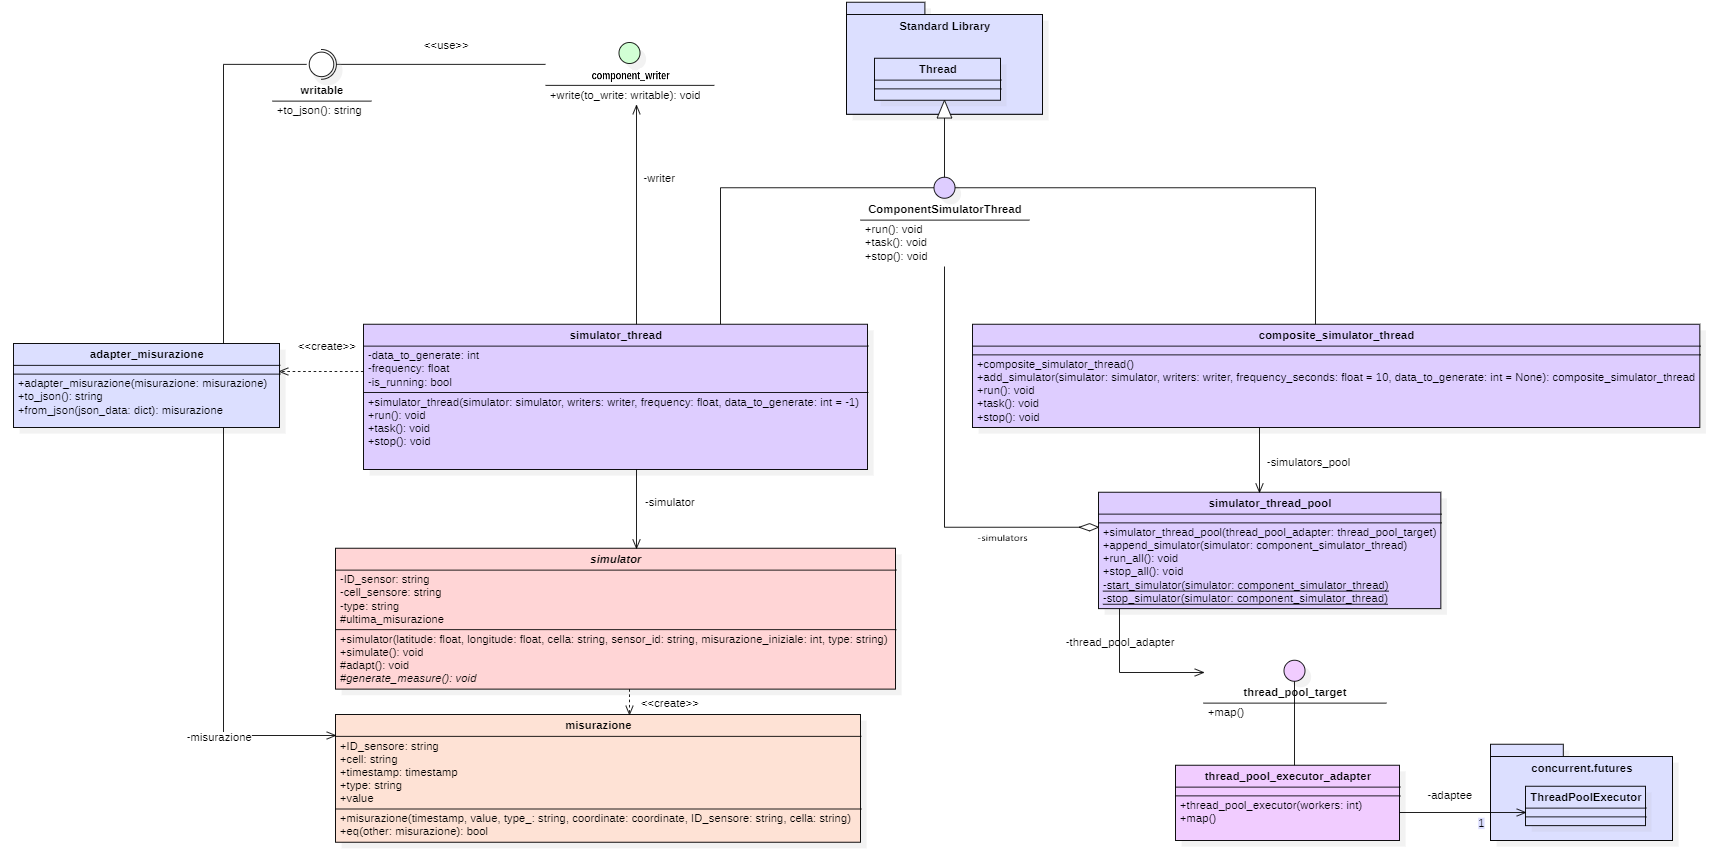
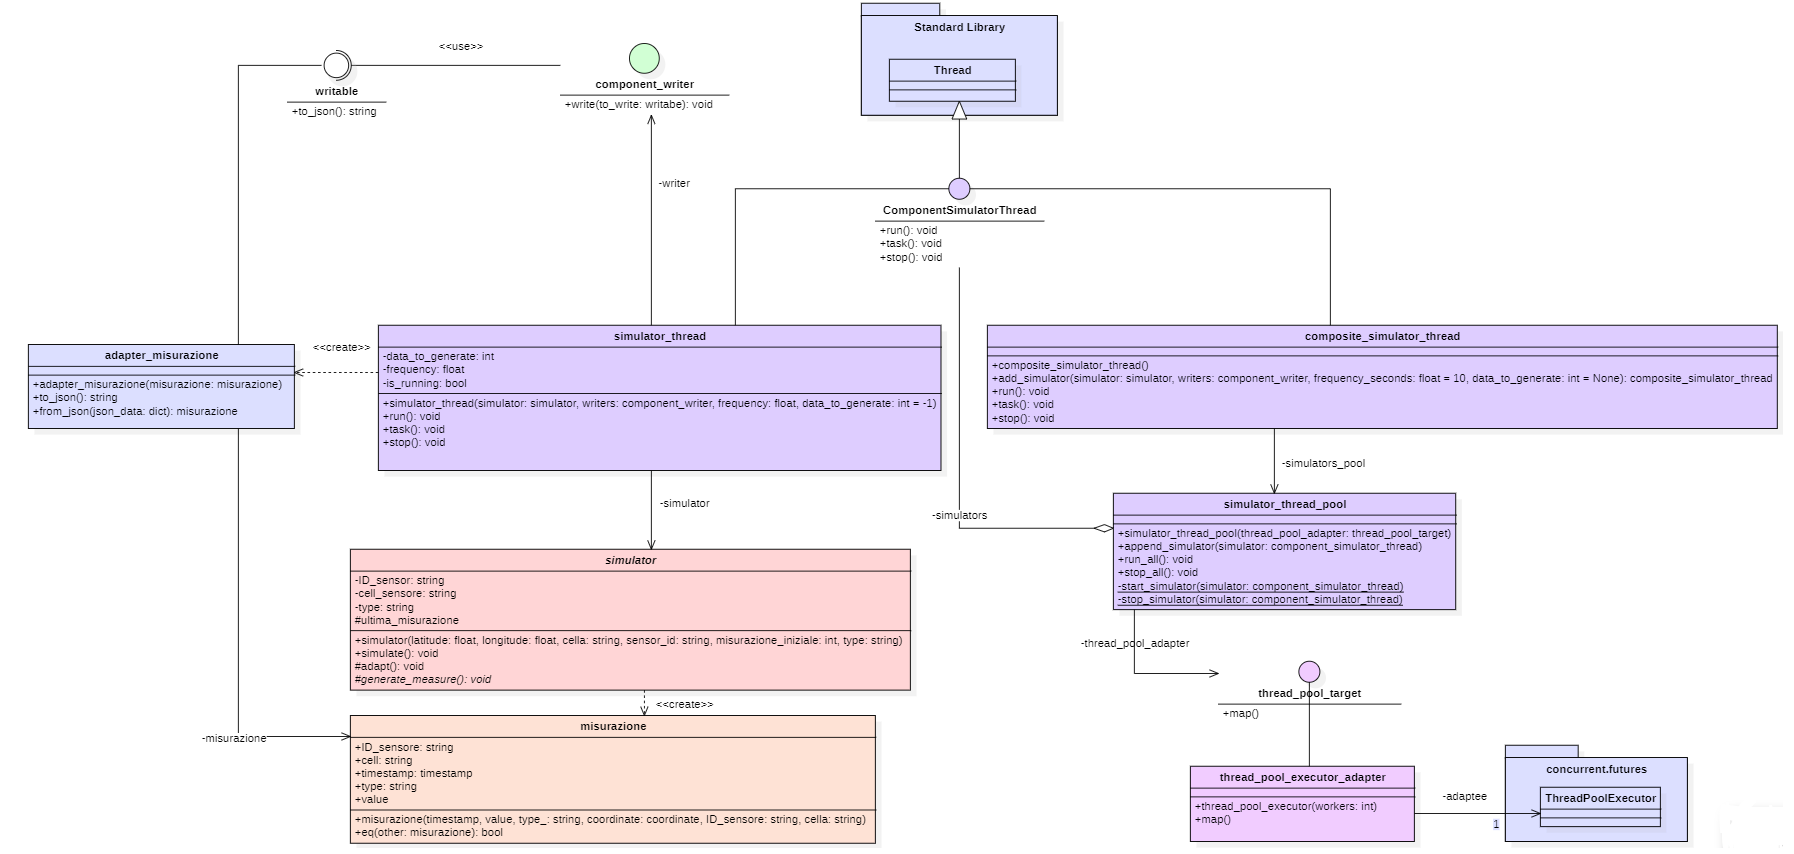
corretto threading

diff --git a/Documenti_Interni/Sottosezioni/Specifica_tecnica/Architettura_simulatori.tex b/Documenti_Interni/Sottosezioni/Specifica_tecnica/Architettura_simulatori.tex
@@ -522,21 +522,21 @@ Questo modulo si propone di gestire la logica di pianificazione per il recupero 
 
 \paragraph*{Dependecy Inversion principle}
 Il modulo è stato progettato per rispettare il principio di inversione delle dipendenze. Infatti, la classe \textit{simulator\_thread\_pool} è stata progettata per essere indipendente dalla libreria di gestione dei thread utilizzata, consentendo di sostituirla senza dover modificare il codice di \textit{simulator\_thread\_pool}.
-Inoltre, i componenti del modulo sono progettati per essere indipendenti dai dettagli di implementazione dei simulatori e dei writers, consentendo di sostituire i simulatori e i writers senza dover modificare il codice.
+Inoltre, i componenti del modulo sono progettati per essere indipendenti dai dettagli di implementazione dei simulatori e degli "writers", consentendo di sostituire i simulatori e gli "writers" senza dover modificare il codice.
 
 \paragraph{Design pattern Composite:}
 Come per il modulo di scrittura anche questo è sviluppato secondo il pattern Composite che permette di gestire un singolo Thread di esecuzione o un gruppo di Thread in modo uniforme.
 \paragraph{Design pattern Object Adapter:}
-Inoltre, considerando l'impiego di più thread per un esecuzione parallela, per delegare l'orchestrazione delle operazioni, si è fatto ricorso alle ThreadPool. Al fine di evitare modifiche dirette al codice di \textit{SimulatorThreadPool}, è stato adottato il pattern \textit{Object Adapter} per adattare la ThreadPool di Python a un'interfaccia comune con cui \textit{SimulatorThreadPool} possa interagire. Questo approccio consente di modificare la logica o la libreria utilizzata per la gestione dei thread senza richiedere modifiche al codice di \textit{SimulatorThreadPool}, ma semplicemente aggiungendo una nuova classe adapter che implementi \textit{thread\_pool\_target}.
+Inoltre, considerando l'impiego di più thread per un esecuzione parallela, per delegare l'orchestrazione delle operazioni, si è fatto ricorso alle ThreadPool. Al fine di evitare modifiche dirette al codice di \textit{simulator\_thread\_pool}, è stato adottato il pattern \textit{Object Adapter} per adattare la ThreadPool di Python a un'interfaccia comune con cui \textit{simulator\_thread\_pool} possa interagire. Questo approccio consente di modificare la logica o la libreria utilizzata per la gestione dei thread senza richiedere modifiche al codice di \textit{simulator\_thread\_pool}, ma semplicemente aggiungendo una nuova classe adapter che implementi \textit{thread\_pool\_target}.
 
-Un'altra implementazione del pattern \textit{Object Adapter} viene impiegata per adattare gli oggetti \textit{misurazione} del modulo \textit{Simulatori} agli oggetti \textit{writable} del modulo \textit{Writers}. La classe \textit{AdapterMisurazione}, implementando l'interfaccia \textit{writable}, fornisce un'implementazione del metodo \textit{to\_json()} che consente di convertire un oggetto \textit{misurazione} nel formato JSON, compatibile e riconosciuto da Kafka.
+Un'altra implementazione del pattern \textit{Object Adapter} viene impiegata per adattare gli oggetti \textit{misurazione} del modulo dei \textit{Simulatori} agli oggetti \textit{writable} del modulo \textit{Writers}. La classe \textit{adapter\_misurazione}, implementando l'interfaccia \textit{writable}, fornisce un'implementazione del metodo \textit{to\_json()} che consente di convertire un oggetto \textit{misurazione} nel formato JSON, compatibile con il formato definito nello Schema Registry e riconosciuto da Kafka.
 \ref*{sec:formatoMessaggi}
 
 
 \paragraph{Classi: metodi e attributi}
 
 \begin{itemize}
-    \item{\textbf{Interfaccia: \textit{ComponentSimulatorThread}}}
+    \item{\textbf{Interfaccia: \textit{component\_simulator\_thread}}}
     \begin{itemize}
         \item \textbf{Metodi: }
         \begin{itemize}
@@ -546,10 +546,10 @@ Un'altra implementazione del pattern \textit{Object Adapter} viene impiegata per
         \end{itemize}
         \item\textbf{Note}:
         \begin{itemize}
-            \item Eredita le proprietà e i metodi della classe Thread della \textit{Standard Library};
-            \item \textit{ComponentSimulatorThread} è un interfaccia di threading per la simulazione sensori, fornendo un contratto per le operazioni di avvio, esecuzione del compito e arresto;
-            \item Rappresenta il componente "Component" del pattern \textit{Composite},descrive le operazioni comuni sia ai singoli Thread sia alle composizioni;
-            \item L'utilizzatore dei simulatori può lavorare allo stesso modo con elementi semplici (Singoli Thread) o complessi dell'albero (Insiemi di Thread in forma di albero).
+            \item Eredita le proprietà e i metodi della classe \textit{Thread} della \textit{Standard Library};
+            \item \textit{component\_simulator\_thread} è un interfaccia di threading per la simulazione sensori, fornendo un contratto per le operazioni di avvio, esecuzione del compito e arresto;
+            \item Rappresenta il componente "Component" del pattern \textit{Composite},descrive le operazioni comuni sia ai singoli Thread sia a composizioni di questi;
+            \item L'utilizzatore dei simulatori può lavorare allo stesso modo con elementi semplici (singoli Thread) o complessi (insiemi di Thread in forma di albero).
         \end{itemize}
     \end{itemize}
     \item{\textbf{Classe: \textit{simulator\_thread}}}
@@ -560,108 +560,111 @@ Un'altra implementazione del pattern \textit{Object Adapter} viene impiegata per
             \item \textbf{frequency:float [private]} - La frequenza con cui generare i dati.
             \item \textbf{is\_running:bool [private]} - Flag per controllare se il thread è in esecuzione.
             \item \textbf{data\_to\_generate:int [private]} - Il numero di dati da generare.
-            \item \textbf{writers:writer [private]} - L'oggetto writer per scrivere i dati generati. (Singolo o albero)
+            \item \textbf{writers:component\_writer [private]} - L'oggetto implementazione di \textit{component\_writer} per scrivere i dati generati. (Singolo o albero - Composite pattern)
         \end{itemize}
         \item \textbf{Metodi: }
         \begin{itemize}
             \item \textbf{run(): None [public]} - Avvia il thread del simulatore.
             \item \textbf{task(): None [public]} - Definisce il compito specifico che il thread deve eseguire, contiene la logica per generare il numero di misurazioni richieste con l'intervallo specificato alla costruzione.
-            Inoltre evita l'invio di misurazioni consecutive uguali cosi da evitare ulteriore sovraccarico di dati ridondanti e deducibili inviando agli Writers solo i cambi di stato del sensore da cui acquisisce la misurazione.
-            All'interno del metodo la misurazione restituita dal simulatore viene adattata ad un oggetto \textit{writable} tramite \textit{AdapterMisurazione} ed inviata agli \textit{Writers}.
+            Inoltre evita l'invio di misurazioni consecutive uguali cosi da ridurre il carico scartando dati ridondanti e deducibili inviando agli \textit{"Writers"} solo i cambi di stato del sensore da cui acquisisce la misurazione.
+            All'interno del metodo, la misurazione restituita dal simulatore, viene adattata ad un oggetto \textit{writable} tramite \textit{adapter\_misurazione} ed inviata agli \textit{"Writers"}.
             \item \textbf{stop(): None [public]} - Ferma il thread del simulatore.
         \end{itemize}
         \item\textbf{Note}:
         \begin{itemize}
-            \item La classe è un'implementazione concreta dell'interfaccia ComponentSimulatorThread, utilizzando un oggetto Simulator per generare dati a una certa frequenza e un oggetto writer per scrivere i dati generati.
-            \item Rappresenta il componente Leaf del pattern \textit{Composite}.
+            \item La classe è un'implementazione concreta dell'interfaccia \textit{component\_simulator\_thread};
+            \item Utilizza un oggetto \textit{Simulator} per generare dati a una certa frequenza e un oggetto che implementa\textit{component\_writer} per scrivere i dati generati;
+            \item Rappresenta il componente Leaf del pattern \textit{Composite};
             \item Se data\_to\_generate < 0 => Genera misurazioni finchè il thread non viene interroto dall'esterno.
-            \item Sebbene i simulatori non siano considerati dalla proponente parte del prodotto, la logica di ottimizzazione per inviare solo i cambi di stato dei sensori viene implementata nella realtà IoT, quindi si è deciso di replicarla. Di conseguenza, è stata presa la decisione di replicarla. È importante notare che questa logica non è incorporata nel Simulatore del sensore, il quale ha unicamente il compito semantico di generare dati come un vero sensore. Invece, essa è implementata nel SimulatorThread, il quale agisce in modo simile a un microcontrollore, responsabile sia della gestione dell'intervallo di campionamento che della logica per l'invio delle misurazioni.
+            \item Sebbene i simulatori non siano considerati dalla proponente parte del prodotto, la logica di ottimizzazione per inviare solo i cambi di stato dei sensori viene implementata nella realtà IoT. Di conseguenza, è stata presa la decisione di replicarla. È importante notare che questa logica non è incorporata nel Simulatore del sensore, il quale ha unicamente il compito semantico di generare dati come un vero sensore. Invece, essa è implementata in \textit{simulator\_thread}, il quale agisce in modo simile a un microcontrollore, responsabile sia della gestione dell'intervallo di campionamento che della logica per l'invio delle misurazioni;
             \item Nel corso dello sviluppo futuro, potrebbe risultare vantaggioso considerare l'implementazione di un pattern \textit{Strategy} per gestire la strategia/criterio di invio dei dati, che possa distinguere tra un invio continuo e la trasmissione solo in caso di cambiamenti di stato. Tuttavia, al momento della decisione, si è optato per non includerlo al fine di evitare un'eccessiva complessità nell'architettura, nota come sovraingegnerizzazione. Tale scelta è stata dettata dalla volontà di mantenere un equilibrio tra la completezza del sistema e la sua semplicità, favorendo un'implementazione più diretta e immediata delle funzionalità richieste.
         \end{itemize}
     \end{itemize}
-    \item{\textbf{Classe: \textit{AdapterMisurazione}}}
+    \item{\textbf{Classe: \textit{adapter\_misurazione}}}
     \begin{itemize}
         \item\textbf{Attributi}:
         \begin{itemize}
-            \item \textbf{misurazione:Misurazione [private]} - L'oggetto Misurazione da adattare.
+            \item \textbf{misurazione:\textit{misurazione} [private]} - L'oggetto \textit{misurazione} da adattare.
         \end{itemize}
         \item \textbf{Metodi: }
         \begin{itemize}
-            \item \textbf{to\_json(): dict [public]} - Converte l'oggetto Misurazione in un dizionario JSON conforme a quanto definito in \ref{sec:formatoMessaggi}.
-            \item \textbf{from\_json(json\_data: dict): Misurazione [staticmethod, public]} - Crea un oggetto Misurazione da un dizionario JSON.
+            \item \textbf{to\_json(): string [public]} - Converte l'oggetto \textit{misurazione} in una stringa JSON conforme a quanto definito in \ref{sec:formatoMessaggi}.
+            \item \textbf{from\_json(json\_data: dict): Misurazione [staticmethod, public]} - Crea un oggetto \textit{misurazione} da un dizionario JSON.
         \end{itemize}
         \item\textbf{Note}:
         \begin{itemize}
-            \item La classe è un'implementazione concreta dell'interfaccia writable. Fornisce metodi per convertire un oggetto Misurazione in un formato JSON e viceversa.
+            \item La classe è un'implementazione concreta dell'interfaccia \textit{writable}. Fornisce metodi per convertire un oggetto \textit{misurazione} in un formato JSON e viceversa;
             \item Rappresenta la come componente "Adapter" del pattern \textit{Object Adapter}.
         \end{itemize}
     \end{itemize}
-    \item{\textbf{Classe: \textit{CompositeSimulatorThread}}}
+    \item{\textbf{Classe: \textit{composite\_simulator\_thread}}}
     \begin{itemize}
         \item\textbf{Attributi}:
         \begin{itemize}
-            \item \textbf{simulator\_executor:SimulatorThreadPool [private]} - L'executor del simulatore per gestire l'esecuzione dei Thread dei simulatori.
+            \item \textbf{simulator\_executor:simulator\_thread\_pool [private]} - L'executor per gestire l'esecuzione di più Thread dei simulatori.
         \end{itemize}
         \item \textbf{Metodi: }
         \begin{itemize}
-            \item \textbf{add\_simulator(simulator: Simulator, writers: writer, frequency: float, data\_to\_generate: int): SimulatorExecutorFactory [public]} - Aggiunge un simulatore all'executor.
-            \item \textbf{add\_simulator\_thread(thread\_simulator: ComponentSimulatorThread): SimulatorExecutorFactory [public]} - Aggiunge un thread di simulatore all'executor.
-            \item \textbf{run(): None [public]} - Avvia tutti i simulatori nell'executor.
-            \item \textbf{stop(): None [public]} - Ferma tutti i simulatori nell'executor.
-            \item \textbf{task(): None [public]} - Avvia tutti i simulatori nell'executor.
+            \item \textbf{add\_simulator(simulator: Simulator, writers: component\_writer, frequency: float, data\_to\_generate: int): SimulatorExecutorFactory [public]} - Aggiunge un simulatore all'executor.
+            \item \textbf{add\_simulator\_thread(thread\_simulator: component\_simulator\_thread): SimulatorExecutorFactory [public]} - Aggiunge un \textit{simulator\_thread} all'executor.
+            \item \textbf{run(): None [public]} - Avvia tutti i \textit{simulator\_thread} nell'executor.
+            \item \textbf{stop(): None [public]} - Ferma tutti i \textit{simulator\_thread} nell'executor.
+            \item \textbf{task(): None [public]} - Avvia tutti i \textit{simulator\_thread} nell'executor.
         \end{itemize}
         \item\textbf{Note}:
         \begin{itemize}
-            \item La classe è un'implementazione concreta dell'interfaccia ComponentSimulatorThread, utilizzando un oggetto SimulatorThreadPool per gestire l'esecuzione di vari simulatori.
-            \item 
+            \item La classe è un'implementazione concreta dell'interfaccia \textit{component\_simulator\_thread}, utilizzando un oggetto \textit{simulator\_thread\_pool} per gestire l'esecuzione di vari simulatori;
+            \item Rappresenta il componente "Composite" del pattern \textit{Composite}.
         \end{itemize}
     \end{itemize}
-    \item{\textbf{Classe: \textit{SimulatorThreadPool}}}
+    \item{\textbf{Classe: \textit{simulator\_thread\_pool}}}
     \begin{itemize}
         \item\textbf{Attributi}:
         \begin{itemize}
-            \item \textbf{simulators:List[ComponentSimulatorThread] [private]} - La lista dei \textit{ComponentSimulatorThread} da eseguire. (Singoli Thread o alberi di Thread)
+            \item \textbf{simulators:List[component\_simulator\_thread] [private]} - La lista dei \textit{component\_simulator\_thread} da eseguire. (Singoli Thread o alberi di Thread)
             \item \textbf{thread\_pool\_adapter:thread\_pool\_target [private]} - Thread pool per gestire l'esecuzione parallela dei simulatori.
         \end{itemize}
         \item \textbf{Metodi: }
         \begin{itemize}
             \item \textbf{run\_all(): None [public]} - Avvia tutti i simulatori nel thread pool, utilizzando l'interfaccia fornita da \textit{thread\_pool\_target} per l'esecuzione controllata di attività in parallelo.
-            \item \textbf{stop\_all(): None [public]} - Ferma tutti i simulatori nel thread pool, utilizzando l'interfaccia fornita da \textit{thread\_pool\_target} per l'esecuzione controllata di attività in parallelo..
-            \item \textbf{append\_simulator(simulator: ComponentSimulatorThread): None [public]} - Aggiunge un \textit{ComponentSimulatorThread} al thread pool.
-            \item \textbf{start\_simulator(simulator: ComponentSimulatorThread): None [private,static]} - Avvia un \textit{ComponentSimulatorThread}.
-            \item \textbf{stop\_simulator(simulator: ComponentSimulatorThread): None [private,static]} - Ferma un \textit{ComponentSimulatorThread}.
+            Per farlo utilizza il metodo \textit{map()} di \textit{thread\_pool\_target} per mappare la funzione statica \textit{start\_simulator()} per ogni \textit{component\_simulator\_thread} in \textit{simulators};
+            \item \textbf{stop\_all(): None [public]} - Ferma tutti i simulatori nel thread pool, utilizzando l'interfaccia fornita da \textit{thread\_pool\_target} per l'esecuzione controllata di attività in parallelo.
+            Per farlo utilizza il metodo \textit{map()} di \textit{thread\_pool\_target} per mappare la funzione statica \textit{stop\_simulator()} per ogni \textit{component\_simulator\_thread} in \textit{simulators};
+            \item \textbf{append\_simulator(simulator: component\_simulator\_thread): None [public]} - Aggiunge un \textit{component\_simulator\_thread} al thread pool.
+            \item \textbf{start\_simulator(simulator: component\_simulator\_thread): None [private,static]} - Avvia un \textit{component\_simulator\_thread}.
+            \item \textbf{stop\_simulator(simulator: component\_simulator\_thread): None [private,static]} - Ferma un \textit{component\_simulator\_thread}.
         \end{itemize}
         \item\textbf{Note}:
         \begin{itemize}
-            \item La classe gestisce un pool di thread per l'esecuzione di vari simulatori, utilizzando un oggetto \textit{thread\_pool\_target} per gestire l'esecuzione dei simulatori;
-            \item I metodi \textit{run\_all()} e \textit{stop\_all()} utilizzano l'interfaccia fornita da \textit{thread\_pool\_target} per mappare rispettivamente la funzione statica \textit{start\_simulator()} e \textit{stop\_simulator()} per ogni \textit{ComponentSimulatorThread} in \textit{simulators}.
-            \item Grazie all'utilizzo di \textit{thread\_pool\_target} è possibile estendere il sistema con nuovi metodi di esecuzione controllata di attività in parallelo o l'utilizzo di nuove librerie senza dover modificare la classe \textit{SimulatorThreadPool} ma solamente aggiungendo una nuova classe adapter che implementi \textit{thread\_pool\_target}.
+            \item La classe gestisce un pool di thread per l'esecuzione di vari simulatori, utilizzando un oggetto che implementa\textit{thread\_pool\_target} per gestire l'esecuzione dei simulatori;
+            \item I metodi \textit{run\_all()} e \textit{stop\_all()} utilizzano l'interfaccia fornita da \textit{thread\_pool\_target} per mappare rispettivamente la funzione statica \textit{start\_simulator()} e \textit{stop\_simulator()} per ogni \textit{component\_simulator\_thread} in \textit{simulators};
+            \item Grazie all'utilizzo di \textit{thread\_pool\_target} è possibile estendere il sistema con nuovi metodi di esecuzione controllata di attività in parallelo o l'utilizzo di nuove librerie senza dover modificare la classe \textit{simulator\_thread\_pool} ma solamente aggiungendo una nuova classe adapter che implementi \textit{thread\_pool\_target}.
         \end{itemize}
     \end{itemize}
     \item{\textbf{Interfaccia: \textit{thread\_pool\_target}}}
     \begin{itemize}
         \item\textbf{Metodi: }
         \begin{itemize}
-            \item \textbf{map(func, iterable): [abstractmethod]} - Un metodo astratto che deve essere implementato nelle sottoclassi. Questo metodo applica la funzione `func` a ogni elemento nell'`iterable`.
+            \item \textbf{map(func, iterable): [abstractmethod]} - Un metodo astratto che deve essere implementato nelle implementazioni. Questo metodo applica la funzione `func` a ogni elemento nell'`iterable`.
         \end{itemize}
         \item\textbf{Note}:
         \begin{itemize}
             \item L'interfaccia rappresenta la componente "Target" del pattern \textit{Object Adapter} fornendo un contratto per le operazioni di esecuzione controllata di attività in parallelo.
         \end{itemize}
     \end{itemize}
-    \item{\textbf{Classe: \textit{ThreadPoolExecutorAdapter}}}
+    \item{\textbf{Classe: \textit{thred\_pool\_executor\_adapter}}}
     \begin{itemize}
         \item\textbf{Attributi}:
         \begin{itemize}
-            \item \textbf{executor:concurrent.futures.ThreadPoolExecutor [private]} - L'executor della thread pool per gestire l'esecuzione dei thread.
+            \item \textbf{executor:concurrent.futures.ThreadPoolExecutor [private]} - L'executor della thread pool per gestire l'esecuzione dei thread dalla libreria \textit{concurrent.futures}. 
         \end{itemize}
         \item \textbf{Metodi: }
         \begin{itemize}
-            \item \textbf{map(func, iterable): [public]} - Applica la funzione `func` a ogni elemento nell' `iterable` utilizzando l'executor del thread pool.
+            \item \textbf{map(func, iterable): [public]} - Applica la funzione `func` a ogni elemento nell' `iterable` utilizzando l'executor del thread pool (\textit{executor}).
         \end{itemize}
         \item\textbf{Note}:
         \begin{itemize}
-            \item La classe è un'implementazione concreta dell'interfaccia thread\_pool\_target, utilizzando un oggetto concurrent.futures.ThreadPoolExecutor per gestire l'esecuzione dei thread.
+            \item La classe è un'implementazione concreta dell'interfaccia \textit{thread\_pool\_target}, utilizzando un oggetto \textit{concurrent.futures.ThreadPoolExecutor} per gestire l'esecuzione dei thread.
             \item Rappresenta il componente "Adapter" del pattern \textit{Object Adapter}.
             \item Adatta l'oggetto ThreadPoolExecutor dalla libreria \textit{concurrent.futures}
             \item Al momento della costruzione deve essere fornito il parametro intero "workers" ovvero
